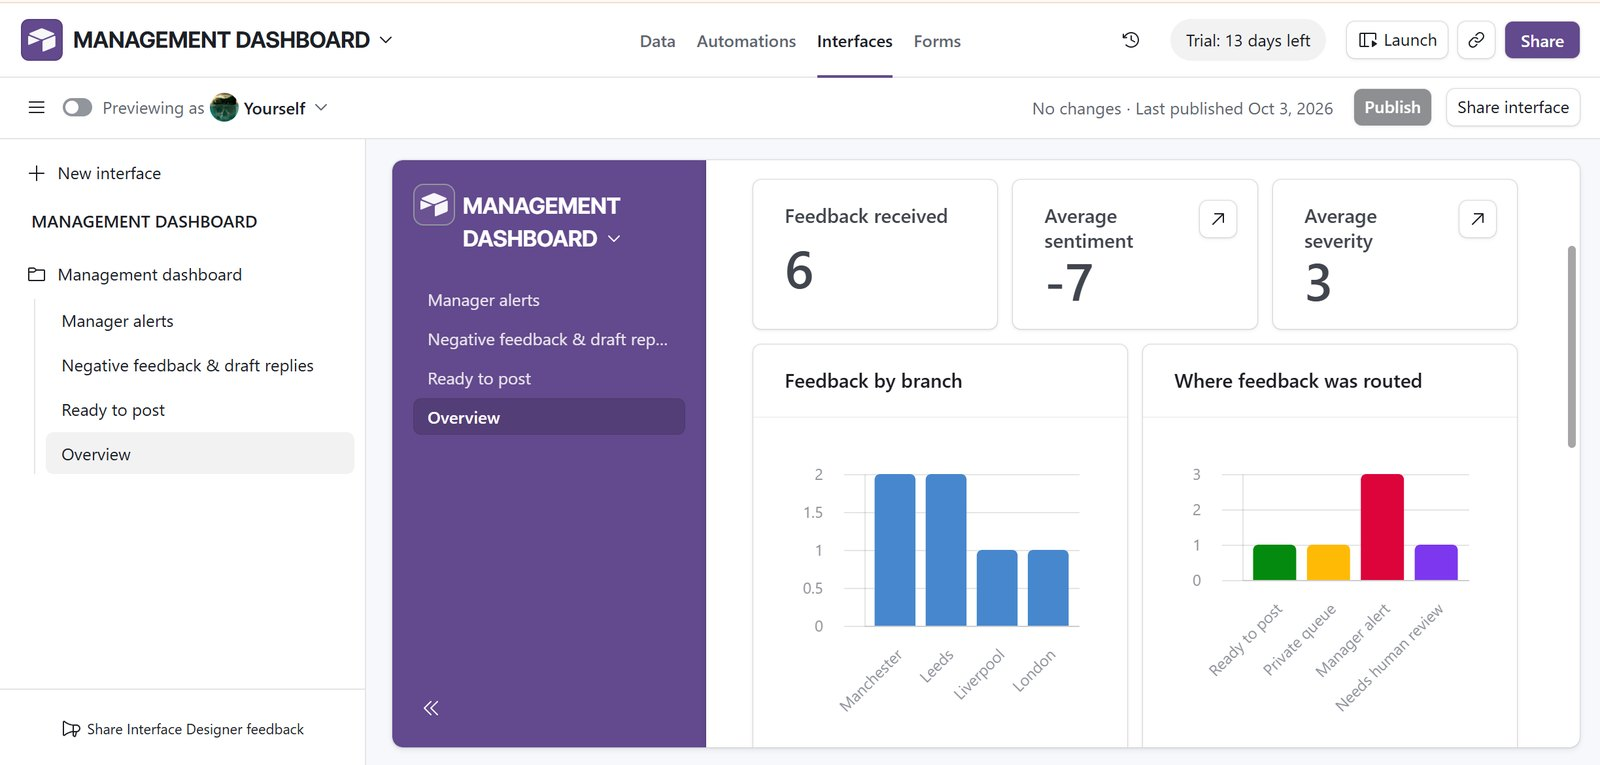
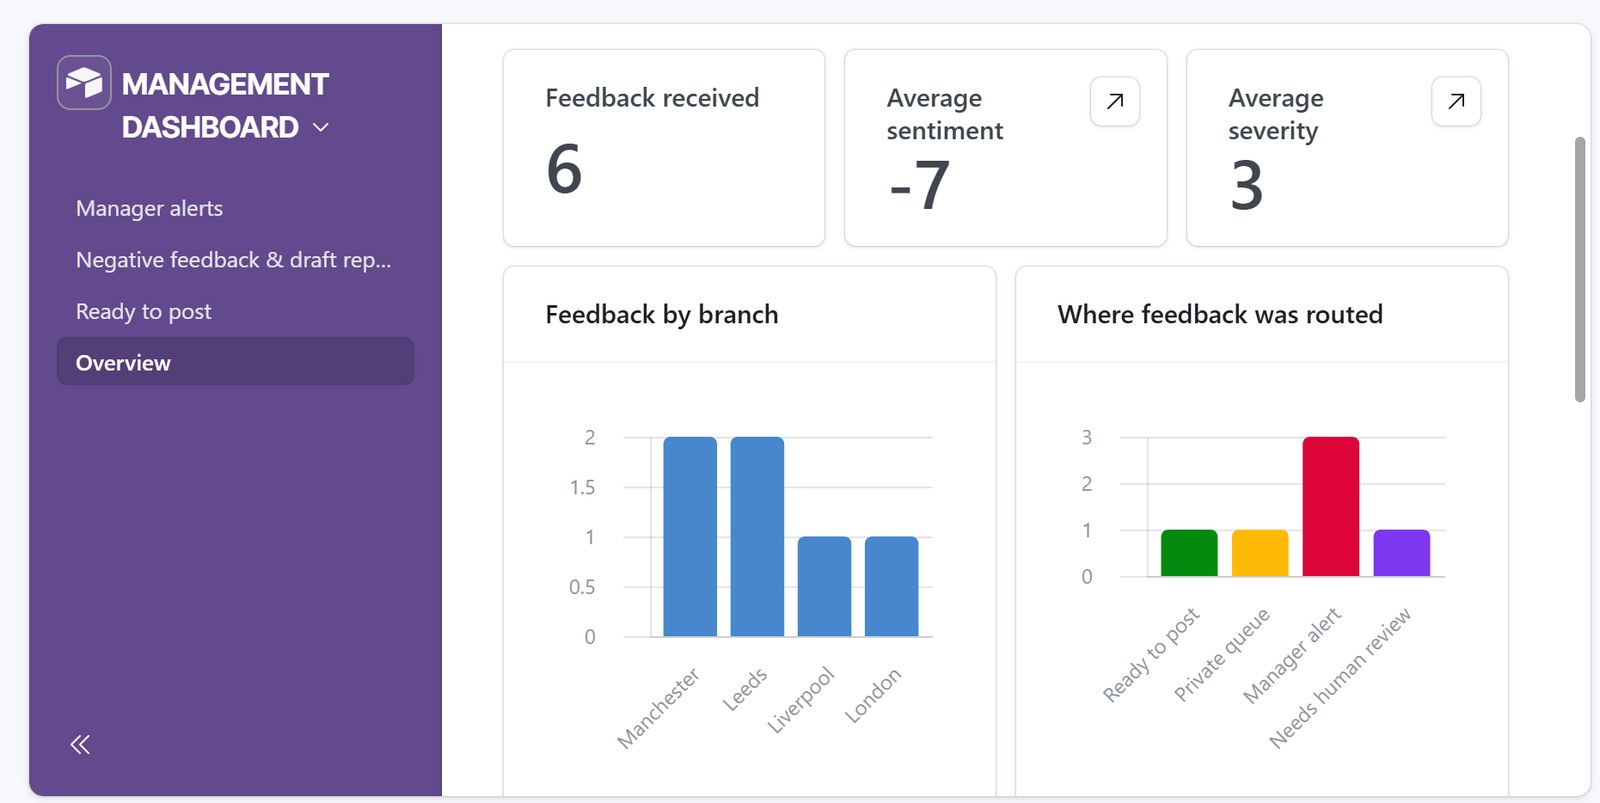
Add files via upload

diff --git a/index.html b/index.html
@@ -7,6 +7,13 @@
 <meta property="og:title" content="Jesse Agu · AI &amp; Automation">
 <meta property="og:description" content="AI-powered, no-code automations built with n8n, Make and OpenAI. Based in Coventry, UK.">
 <meta property="og:type" content="website">
+<meta property="og:url" content="https://jesseagu081-eng.github.io/">
+<meta property="og:image" content="https://jesseagu081-eng.github.io/og-image.jpg">
+<meta property="og:image:width" content="1200">
+<meta property="og:image:height" content="630">
+<meta name="twitter:card" content="summary_large_image">
+<meta name="theme-color" content="#0f1012">
+<link rel="icon" href="favicon.svg" type="image/svg+xml">
 <meta name="description" content="Jesse Chukwuka Agu builds AI-powered, no-code automations with n8n, Make and OpenAI. Based in Coventry, UK.">
 <link rel="preconnect" href="https://fonts.googleapis.com">
 <link rel="stylesheet" href="https://fonts.googleapis.com/css2?family=Archivo:wdth,wght@112,500;125,800&family=IBM+Plex+Sans:wght@400;500;600&family=IBM+Plex+Mono:wght@400;500&display=swap">
@@ -350,7 +357,7 @@ footer a { color: var(--muted); }
           </figure>
           <figure class="shot">
             <button type="button" class="zoom" data-src="shot-capstone-dashboard.jpg" data-cap="The management dashboard: feedback by branch and where it was routed" aria-label="View the management dashboard full size">
-              <img src="shot-capstone-dashboard.jpg" alt="Management dashboard showing feedback received, average sentiment, average severity, feedback by branch and where feedback was routed" width="1600" height="765" loading="lazy">
+              <img src="shot-capstone-dashboard.jpg" alt="Management dashboard showing feedback received, average sentiment, average severity, feedback by branch and where feedback was routed" width="1600" height="803" loading="lazy">
             </button>
             <figcaption>The management dashboard</figcaption>
           </figure>
